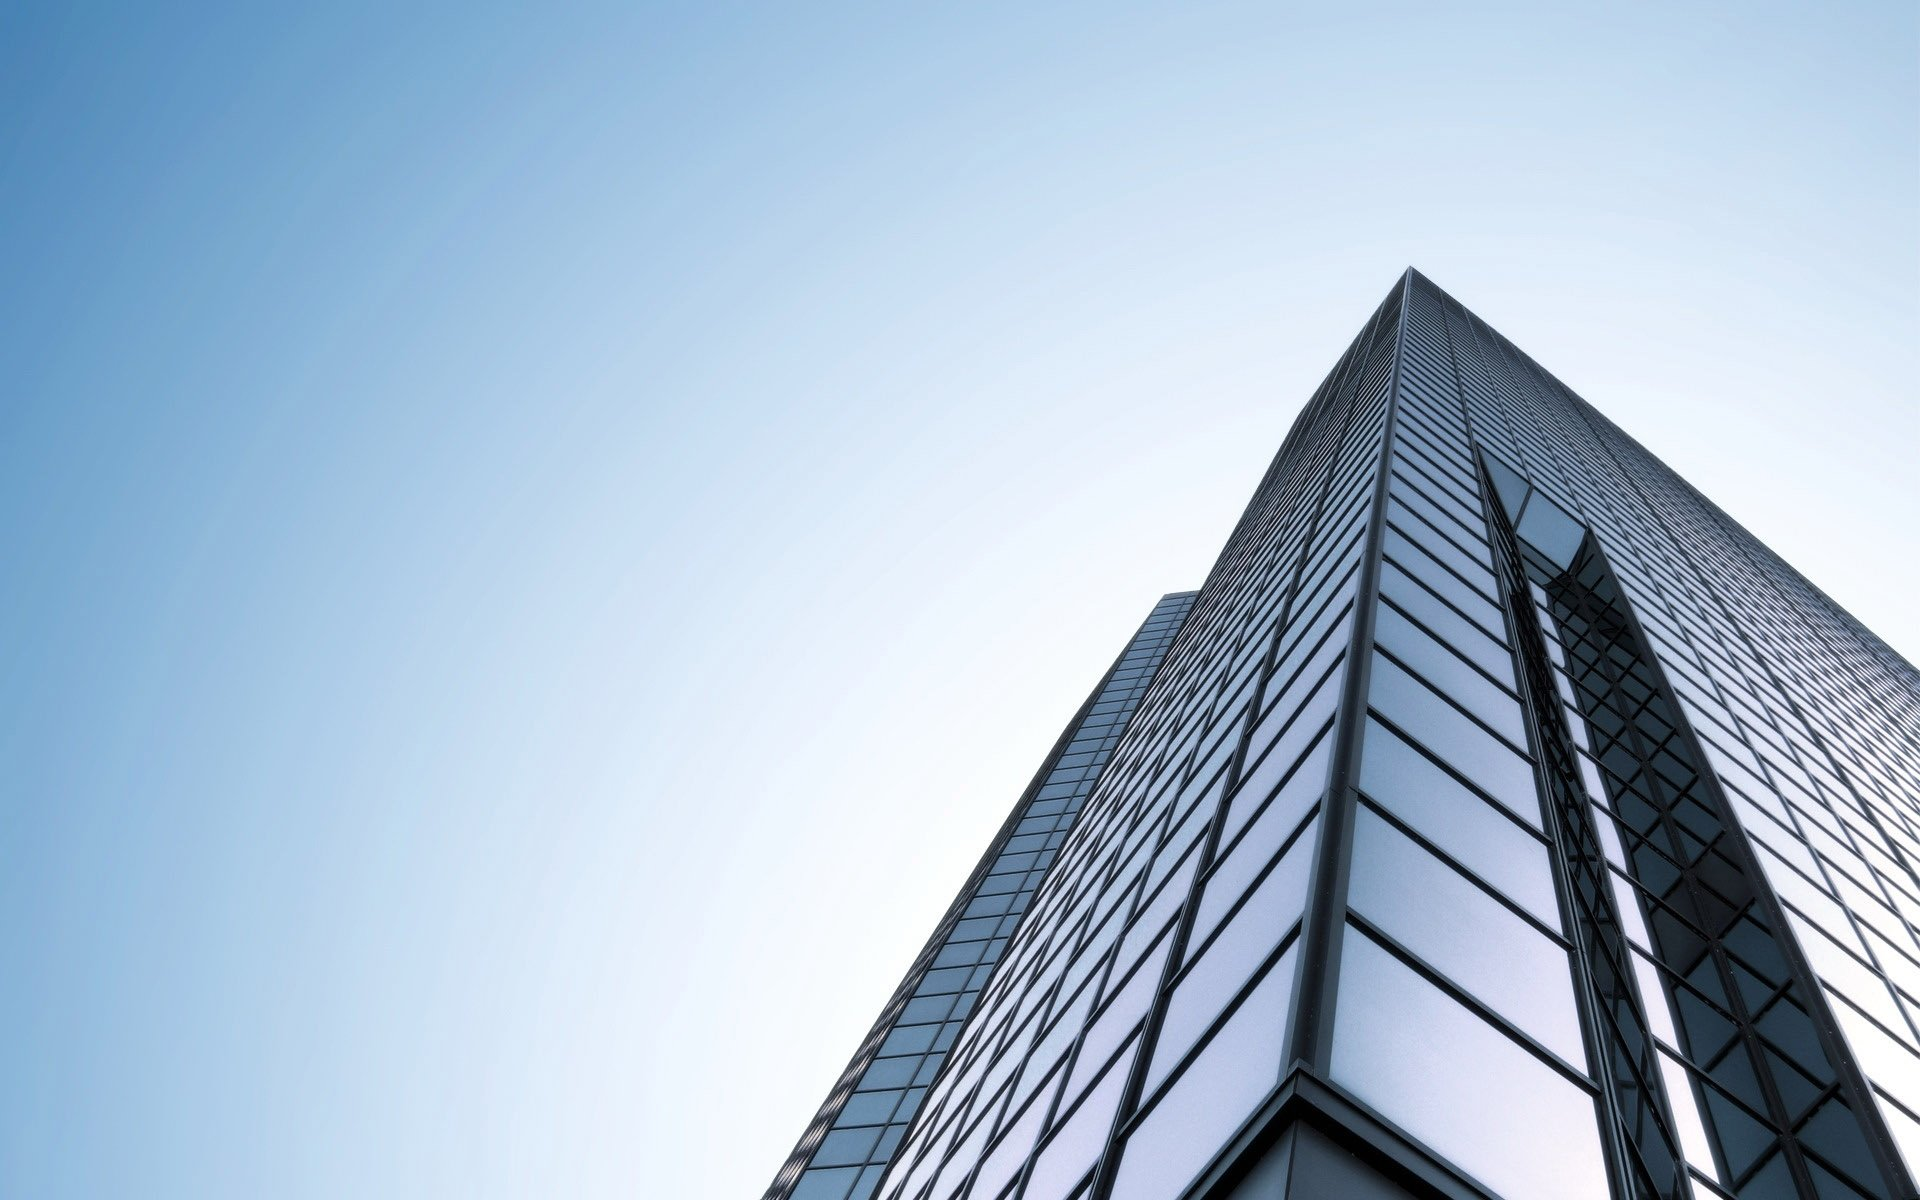
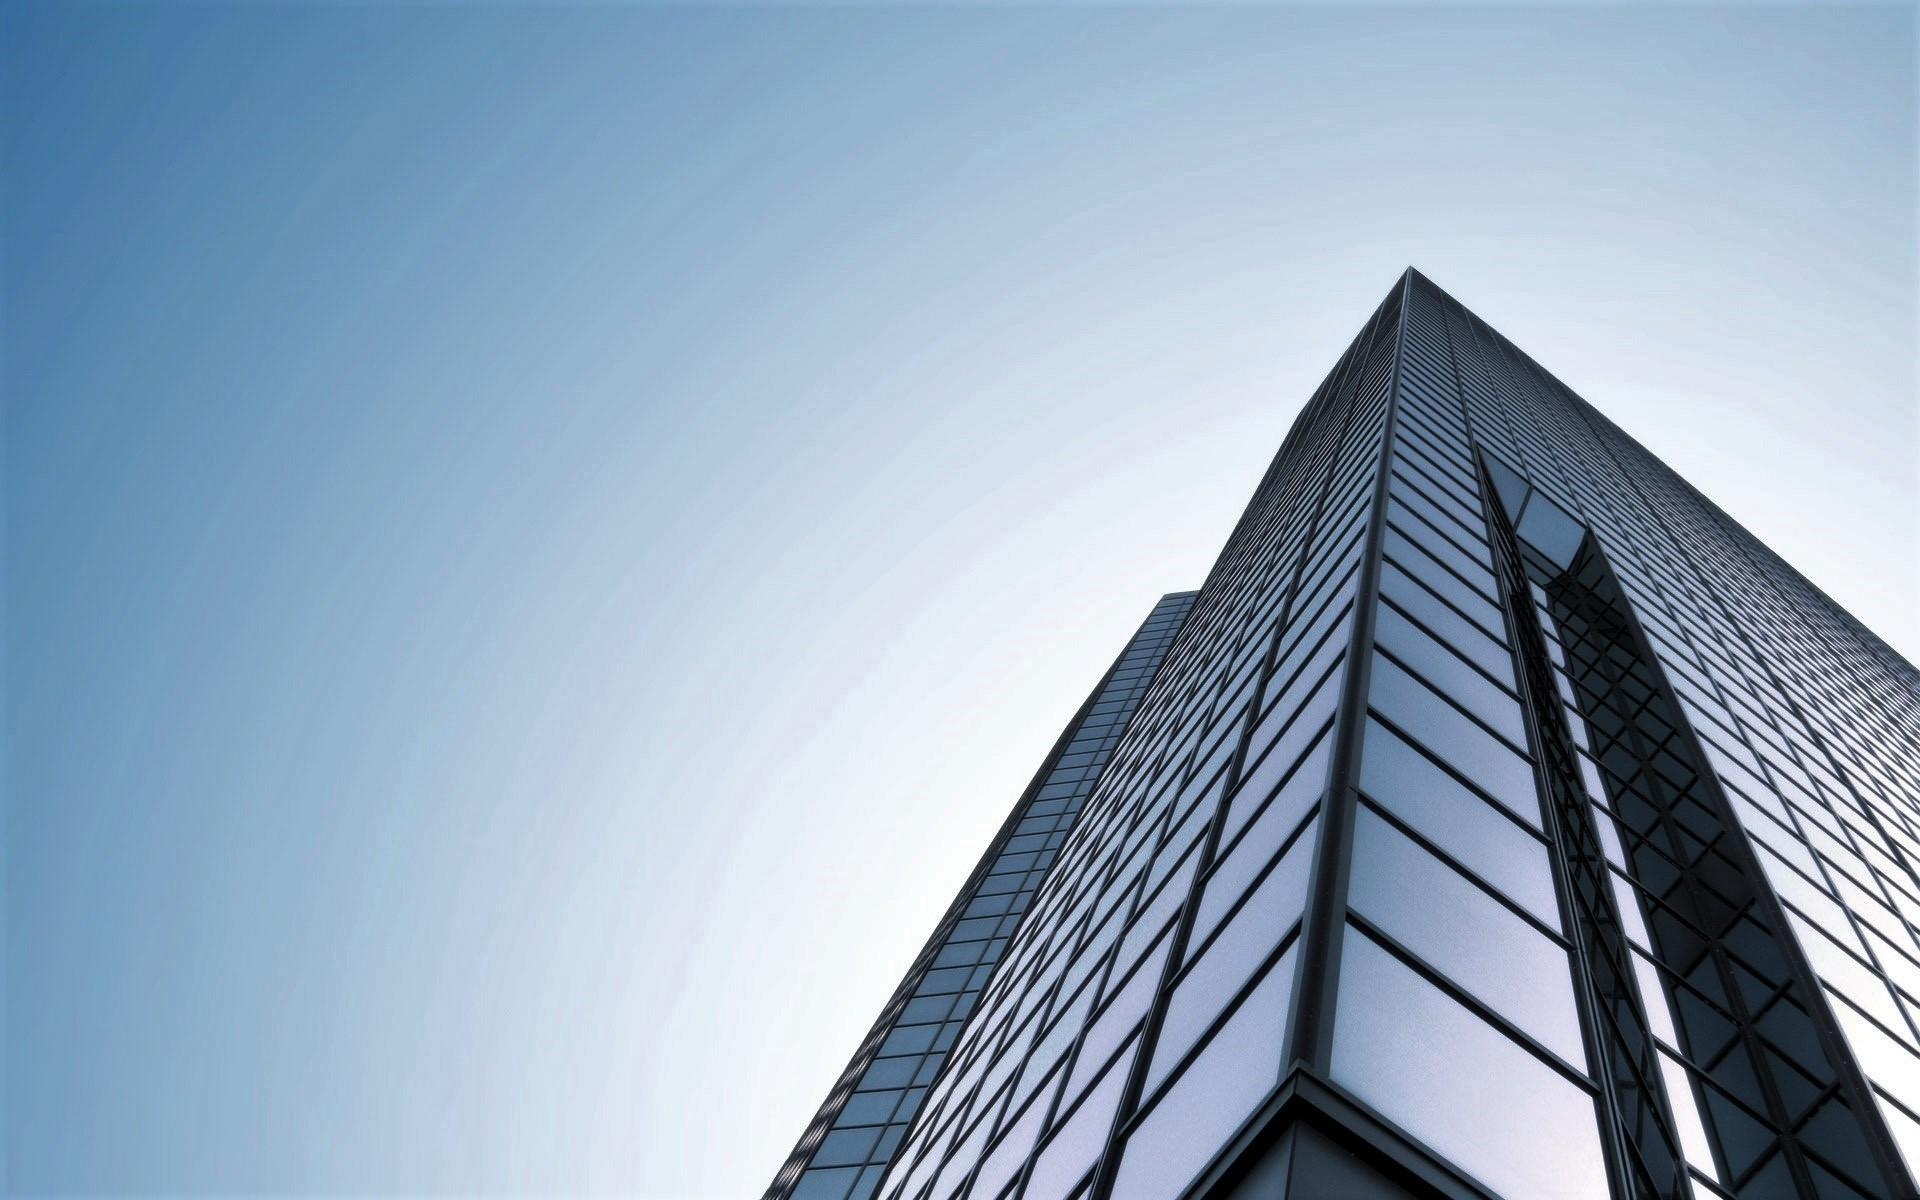
orcamento page : first layer done

diff --git a/deccer-app/src/app/orcamento-page/orcamento-page.component.css b/deccer-app/src/app/orcamento-page/orcamento-page.component.css
@@ -1,7 +1,7 @@
 
 .bg {
     /* The image used */
-    background-image: url("../../assets/bg4.jpg");
+    background-image: url("../../assets/bg4dark.jpg");
     /*background-color: #4156e3;*/
     
     margin-top: 0%;
@@ -36,4 +36,75 @@ ul,li {
     font-family:'Gill Sans', 'Gill Sans MT', Calibri, 'Trebuchet MS', sans-serif ;
     padding-top: 4%;
     font-size: 15px;
+}
+
+h1{
+    font-size: 4.44vw;
+    color:#29aae3;
+}
+
+.list{
+    font-size: 1.5vw;
+    color: rgb(46, 46, 46);
+    font-family:  sans-serif
+}
+
+.open-trans{
+    overflow: hidden;
+    transition-duration: 1.90s;
+    transition-property: transform;
+    animation: createBox 2s;
+}
+
+@keyframes createBox {
+        from {
+          transform: scale(0.60);
+        }
+        to {
+          transform: scale(1);
+    }
+}
+
+.slide {
+    right: -3000px;
+    -webkit-animation: slide 0.2s forwards;
+    -webkit-animation-delay: 0.9s;
+    animation: slide 1s forwards;
+    animation-delay: 0.2s;
+}
+
+@-webkit-keyframes slide {
+    100% { right: 0; }
+}
+
+@keyframes slide {
+    100% { right:0; }
+}
+
+.pt-8{
+    padding-top:8%;
+}
+
+button{
+    margin-top:0%;
+
+    padding: 2.4%;
+    margin-bottom: 2%;
+    background-color: #29aae3;
+    color: white;
+    border-style: none;
+    border-width: thin;
+    opacity:0.78;
+    font-family: 'Lucida Sans', 'Lucida Sans Regular', 'Lucida Grande', 'Lucida Sans Unicode', Geneva, Verdana, sans-serif ;;
+    transition: 1s;
+}
+
+
+button:hover{
+    transition:1s;
+    border-color: #29aae3;
+    background-color: #29aae3;;
+    opacity: 0.60;
+    font-size: 1.3em;
+    color: white;
 }

diff --git a/deccer-app/src/app/orcamento-page/orcamento-page.component.html b/deccer-app/src/app/orcamento-page/orcamento-page.component.html
@@ -5,11 +5,11 @@
 
 
   <!-- Content here -->
-<div class="container-fluid  text-center ">
+<div class="container-fluid   ">
   
   <!-- First Layout  -->
-  <div class="row justify-content-center bg ">
-    <div class="col pt-5 pb-5 ">
+  <div class="row text-center bg ">
+    <div class="col-md-6 pt-8 pb-5 ">
       <p>
         <mat-form-field appearance="legacy">
           <mat-label>Nome:</mat-label>
@@ -43,20 +43,24 @@
         </mat-form-field>
       </p>
       <p>
-        <mat-form-field appearance="outline">
-          <mat-label>Outline form field</mat-label>
-          <input matInput placeholder="Placeholder">
-          <mat-icon matSuffix>sentiment_very_satisfied</mat-icon>
-          <mat-hint>Hint</mat-hint>
-        </mat-form-field>
-      </p>
-      <p>
         <mat-form-field appearance="fill" >
-          <mat-label>Textarea</mat-label>
-          <textarea style="height: 140px;" matInput></textarea>
+          <mat-label>Descrição:</mat-label>
+          <textarea style="height: 140px; width: 330px;" matInput></textarea>
         </mat-form-field>
       </p>
+        <button>Enviar</button>
+    </div>
+
+    <div class="col-md-4  d-none d-sm-block align-self-center slide pb-4 " style="background-color: white; opacity: 0.7;"> 
+      <div class="pt-5 list text-right pr-4">
+        <h1 style="padding-bottom: 8%;">ORÇAMENTO</h1>
+        <p>GARANTIA MINÍMA DE 5 ANOS</p>
+        <p>OS PRAZOS SÃO PARA CUMPRIR</p>
+        <p>NÃO HÁ SURPRESAS NO PREÇO*</p>
+        <p>PROFISSIONAIS COM MAIS DE 40 ANOS DE EXPERIENCIA</p>
+
         
+      </div>
     </div>
   </div>
 

diff --git a/deccer-app/src/app/components/footer/footer.component.html b/deccer-app/src/app/components/footer/footer.component.html
@@ -7,7 +7,7 @@
       <div class="row">
   
         <!-- Grid column -->
-        <div class="col-md-6 mt-md-0 mt-3">
+        <div class="col-md-6 mt-md-0 mt-3 p-l">
   
           <!-- Content -->
           <h4 class="text-uppercase">DECCER Contactos</h4>

diff --git a/deccer-app/src/app/components/footer/footer.component.css b/deccer-app/src/app/components/footer/footer.component.css
@@ -36,6 +36,10 @@ button{
     transition: 1s;
 }
 
+.p-l{
+    padding-left:10%;
+}
+
 p,h1,h3,li{
     font-family:'Lucida Sans', 'Lucida Sans Regular', 'Lucida Grande', 'Lucida Sans Unicode', Geneva, Verdana, sans-serif ;
 }
